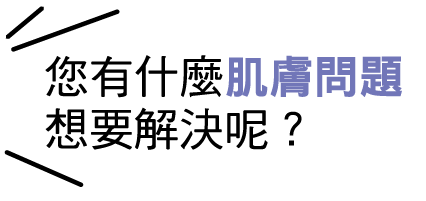
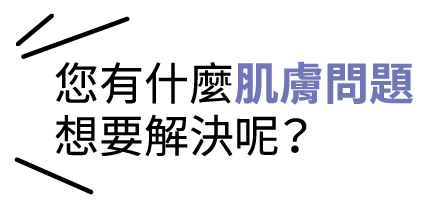
fix layouts

Changed region(s): [[0.0915, 0.2687, 0.9765, 0.7761], [0.0, 0.0299, 0.3052, 0.2985], [0.0, 0.7463, 0.2136, 0.9851]]

diff --git a/src/styles.css b/src/styles.css
@@ -352,6 +352,7 @@
 
 .problems-title {
   margin: unset;
+  z-index: 1;
 }
 
 .problems-title img {
@@ -373,6 +374,7 @@
   width: 227.5px;
   grid-gap: 7.5px;
   height: 147.5px;
+  z-index: 1;
 }
 
 .problems-btns img {
@@ -397,20 +399,20 @@
 }
 
 .problems-text2 img {
-  margin-top: 20px;
-  width: 145px;
+  margin-top: 10px;
+  width: 184px;
 }
 
 .problems-pic1 img {
   position: absolute;
-  top: 107px;
+  top: 110px;
   left: 83px;
   width: 69.5px;
 }
 
 .problems-pic2 img {
   position: absolute;
-  top: 169px;
+  top: 167px;
   right: 47px;
   width: 44.5px;
 }
@@ -424,7 +426,7 @@
 
 .problems-pic4 img {
   position: absolute;
-  top: 320px;
+  top: 340px;
   right: 5px;
   width: 105.75px;
 }

diff --git a/src/components/SkinProblemSets.jsx b/src/components/SkinProblemSets.jsx
@@ -14,7 +14,7 @@ import pic4 from '../assets/problems/problems-pic4.png';
 export default function SkinProblemSets({ renderProductButtons, handleBackToSystemClick }) {
   return (
     <div className='problems'>
-            <div className='frame-h380'>
+      <div className='frame-h380'>
         <img src={frame} alt='' />
         <div className='frame-h380-bg'></div>
       </div>
@@ -24,7 +24,7 @@ export default function SkinProblemSets({ renderProductButtons, handleBackToSyst
       </div>
 
       <h2 className='problems-title'>
-        <img src={title} alt="歡迎光臨Kiehl's" />
+        <img src={title} alt="歡迎光臨Kiehl’s" />
       </h2>
 
       <div className='problems-text1'>

diff --git a/src/components/MainContent.jsx b/src/components/MainContent.jsx
@@ -327,7 +327,7 @@ function MainContent() {
               <iframe
                 width="164"
                 height="294"
-                src="https://www.youtube.com/embed/lMwbqiyoEzk?feature=shared"
+                src="https://www.youtube.com/embed/hsnwcyhkVPs?feature=shared"
                 title="YouTube video player"
                 allow="accelerometer; autoplay; clipboard-write; encrypted-media; gyroscope; picture-in-picture"
                 allowFullScreen
